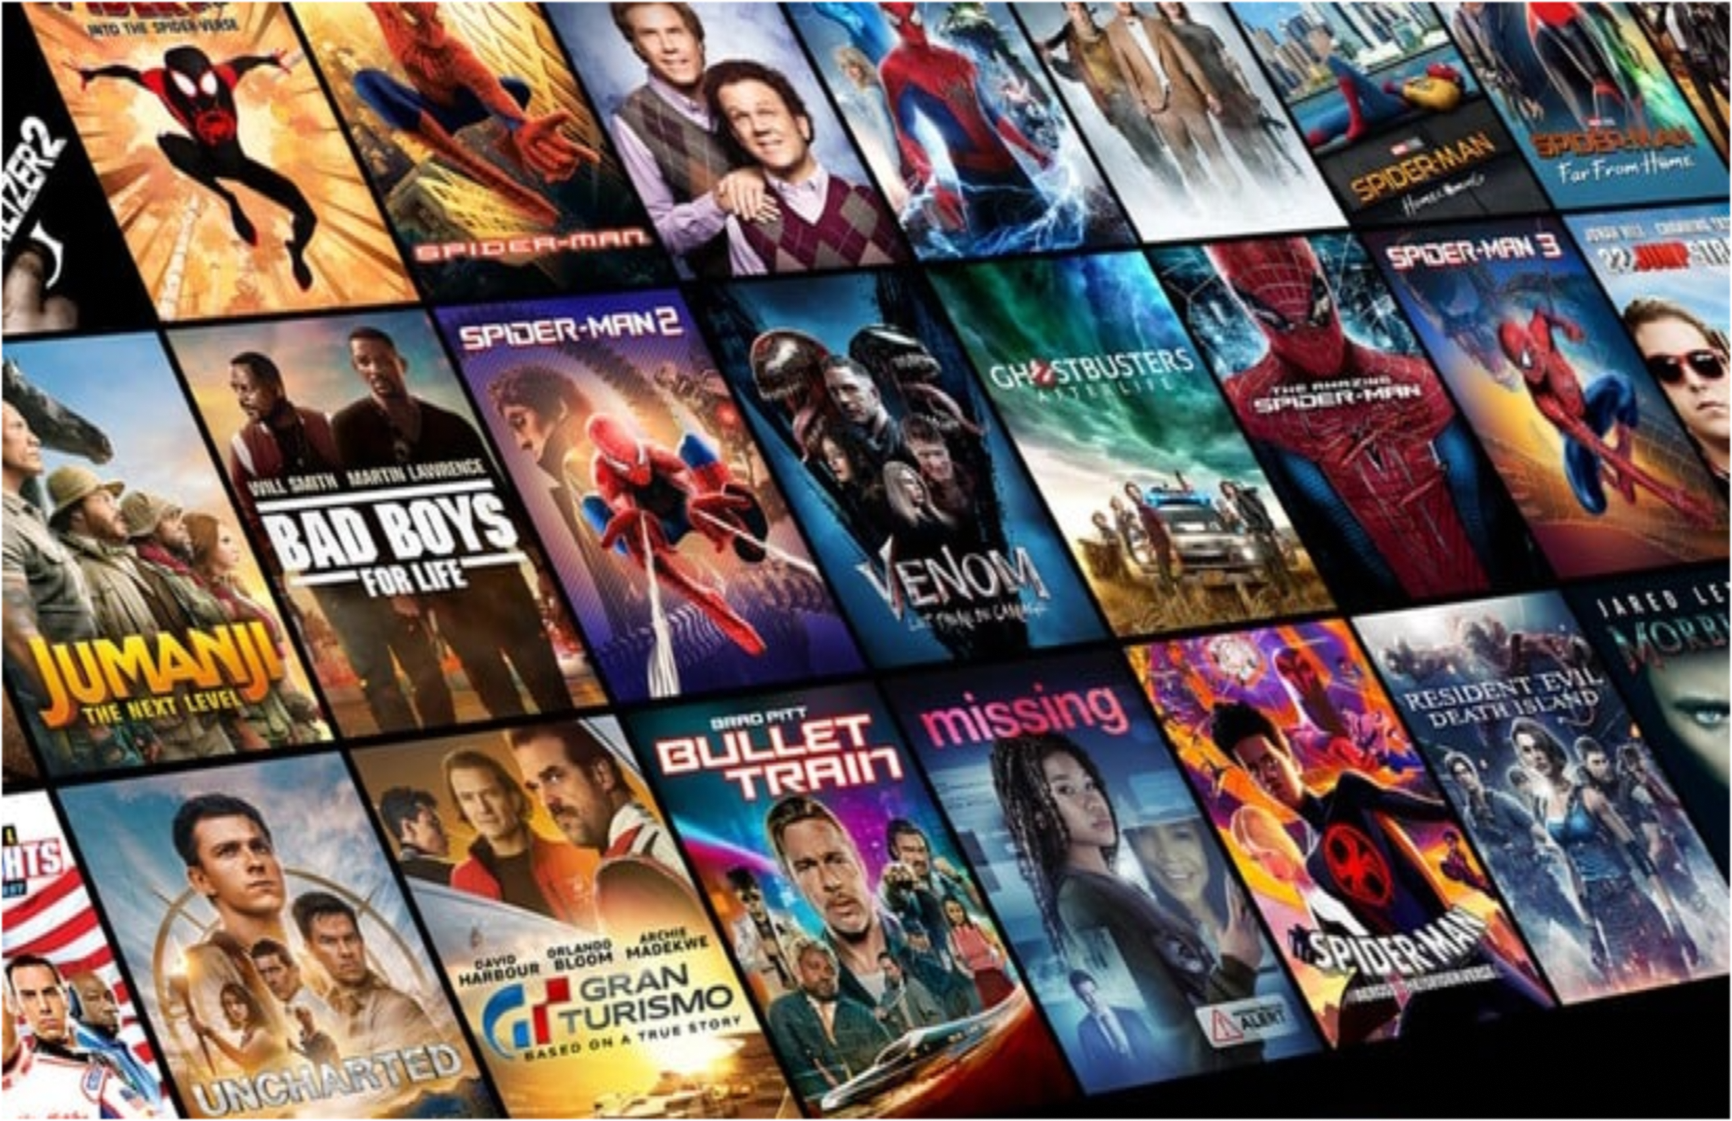
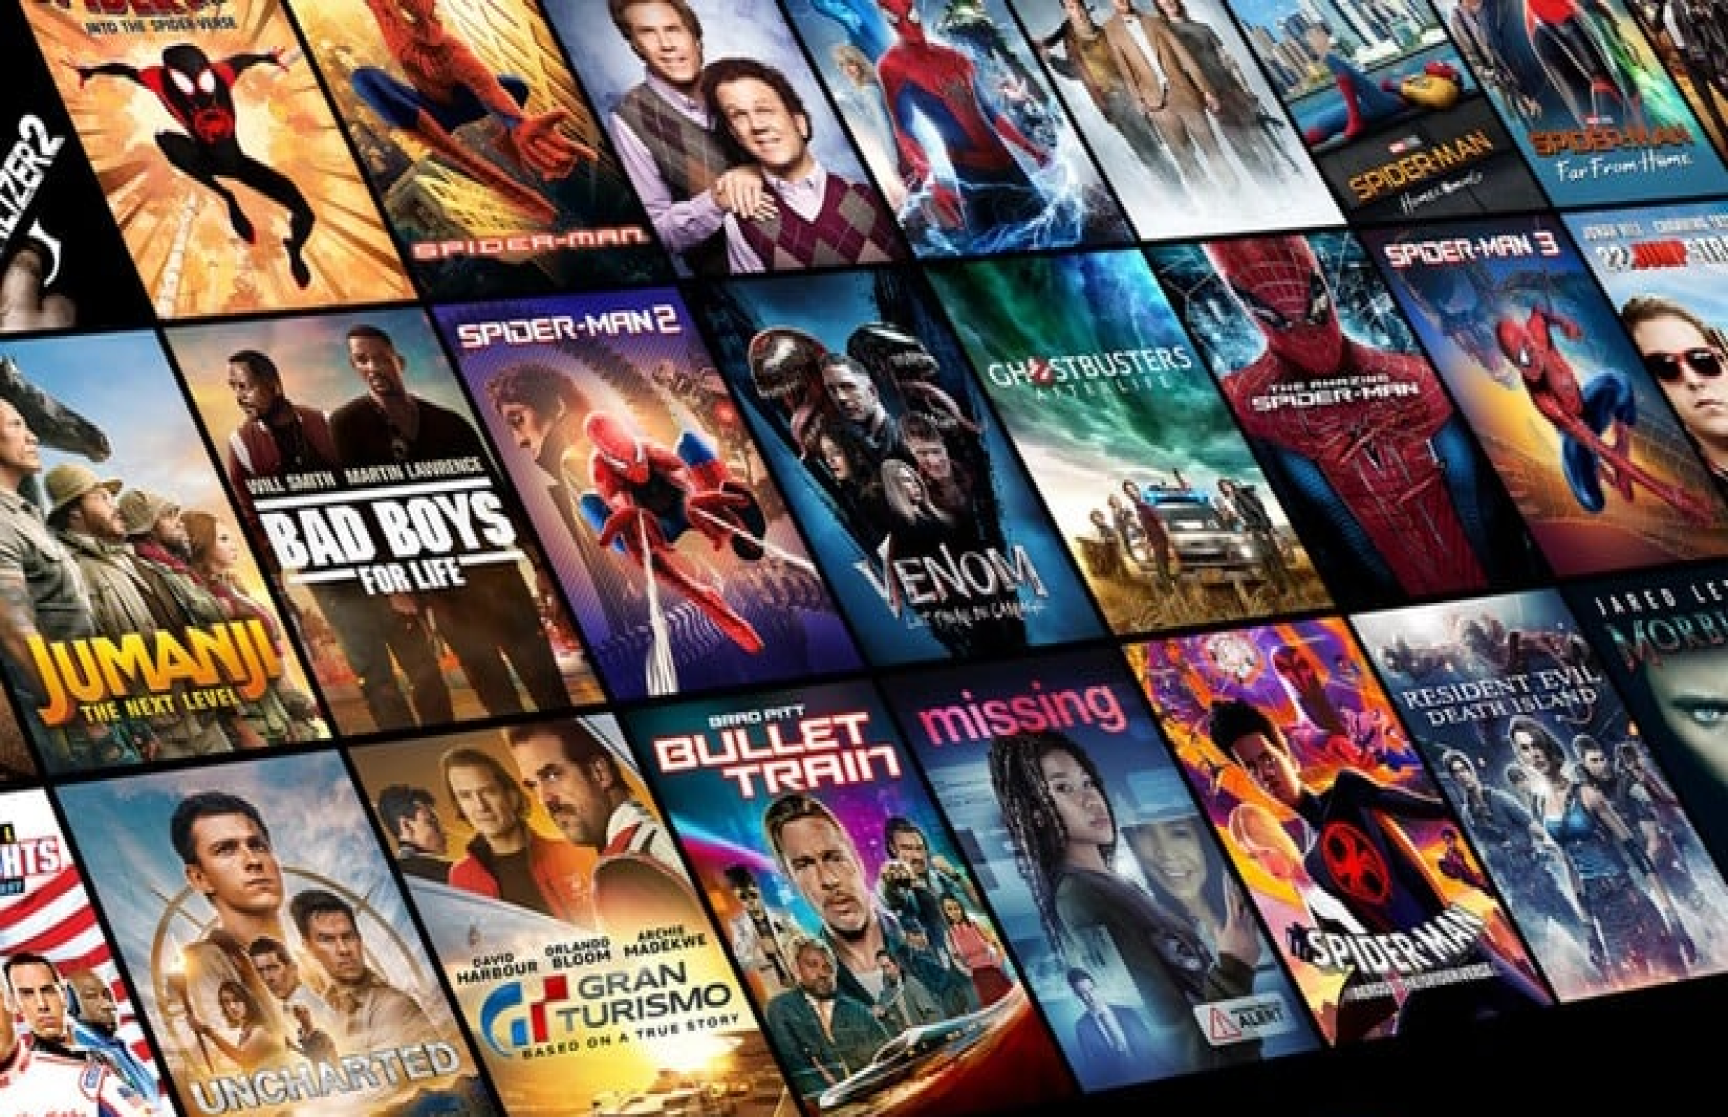
imagem ocupar a tela

diff --git a/Moviein/moviein/src/pages/Auth/Login.tsx b/Moviein/moviein/src/pages/Auth/Login.tsx
@@ -10,7 +10,7 @@ const Login: React.FC = () => {
 
   return (
     <div className='relative w-full h-screen'>
-      <img src={filmes} alt='Filmes' className='absolute w-full h-full object-cover -z-10' />
+      <img src={filmes} alt='Filmes' className='absolute w-full h-screen object-cover -z-10' />
       <div className='container mx-auto'>
         <div className='grid md:grid-cols-2 grid-cols-1 h-screen'>
           <div className='md:col-start-2'>
